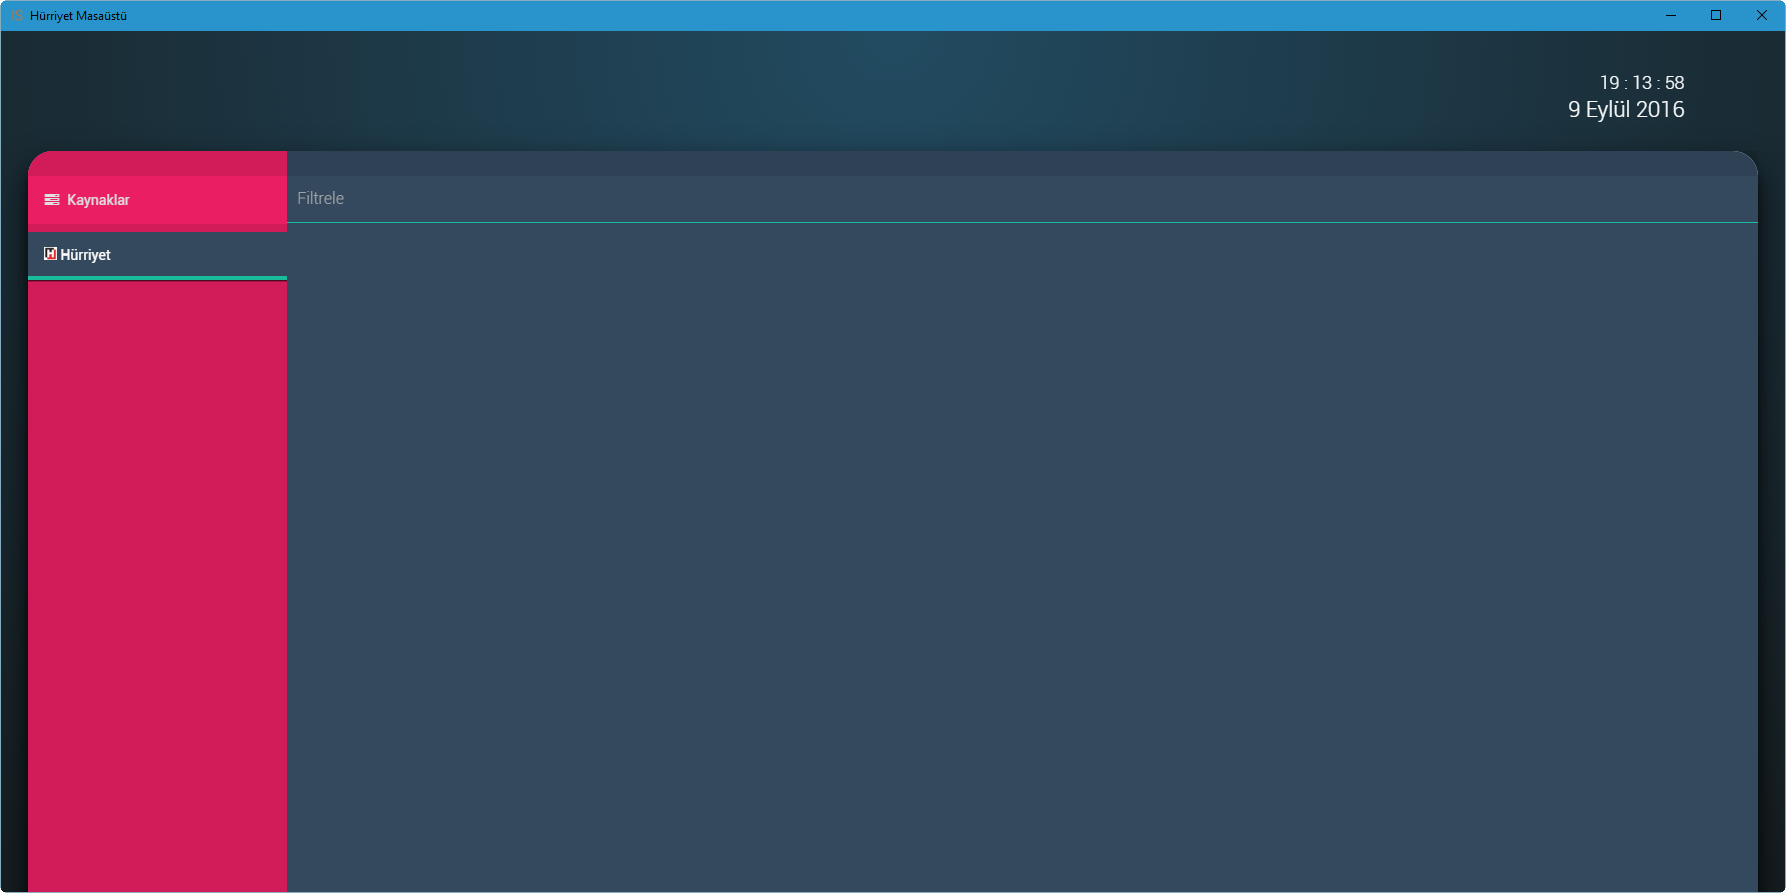
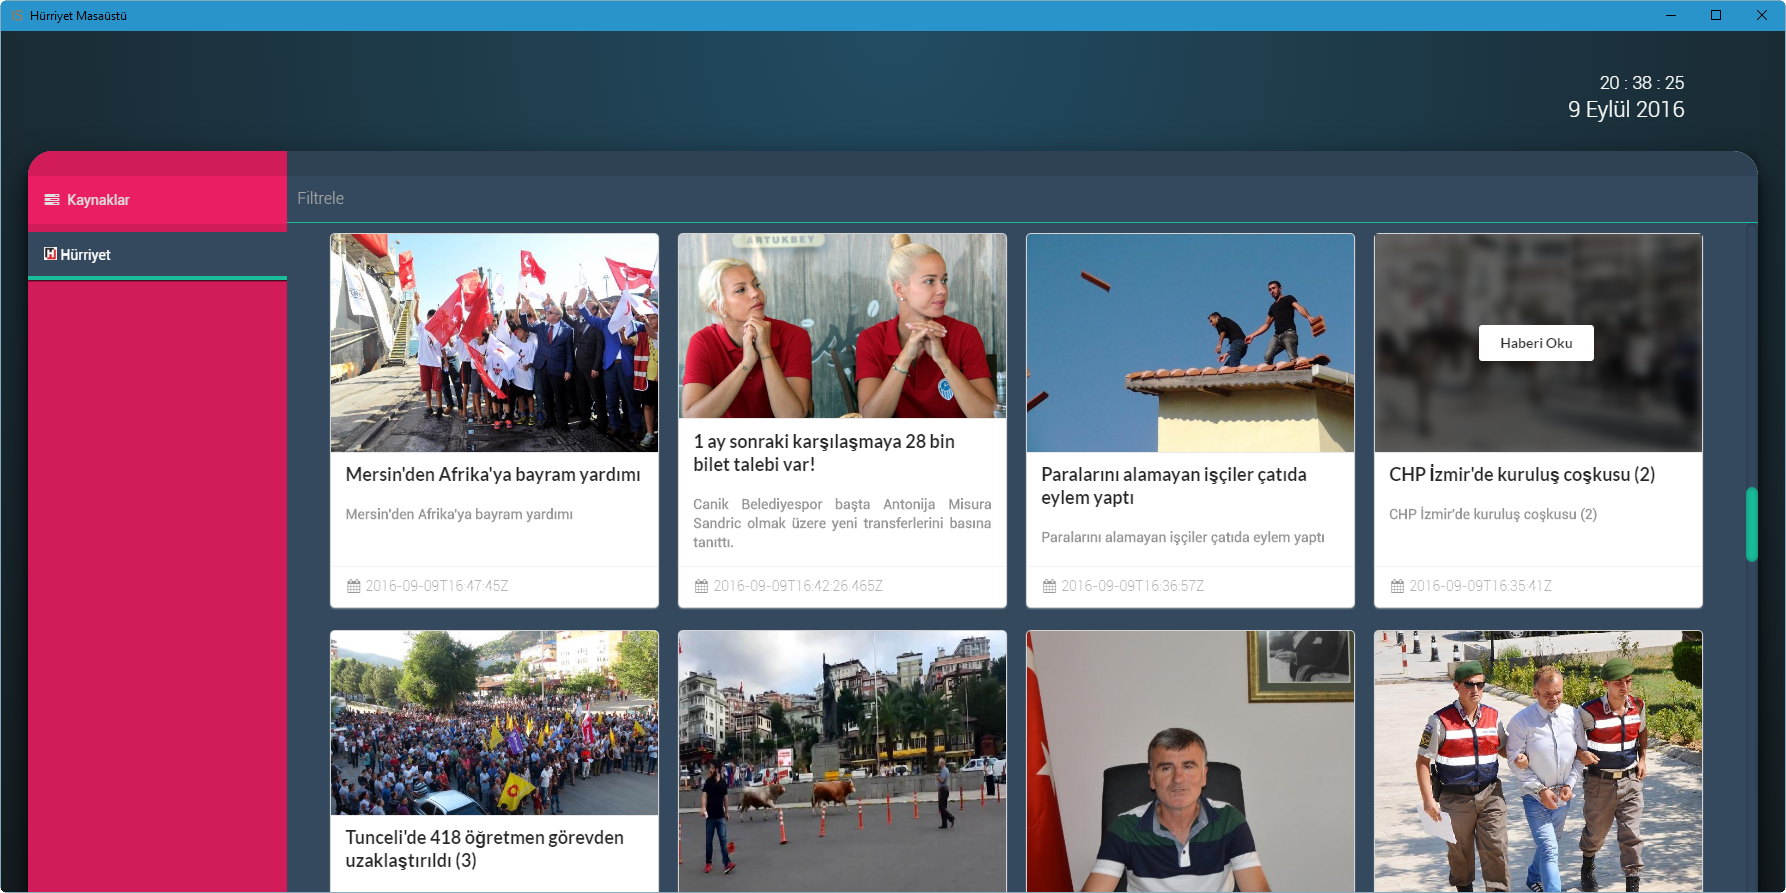
:newspaper: Son 50 haber anasayfada kullanıcıya sunuldu.

diff --git a/app/src/akis.ts b/app/src/akis.ts
@@ -3,7 +3,6 @@
 let fs = require('fs');
 let http = require("https");
 let anahtar: any;
-let haberler: any;
 
 $(document).ready(() => {
   zamaniYaz();
@@ -33,8 +32,8 @@ $(document).ready(() => {
 
         res.on("end", function () {
           let body = Buffer.concat(chunks);
-          haberler = jQuery.parseJSON(body.toString());
-          console.log(haberler);
+          let haberler = jQuery.parseJSON(body.toString());
+          haberleriGoster(haberler);
         });
       });
       req.end();
@@ -42,6 +41,43 @@ $(document).ready(() => {
   });
 });
 
+function haberleriGoster(haberler: any) {
+  console.log(haberler);
+
+  let ifade: string = "<div class='ui four stackable special cards'>";
+  for (let i = 0; i < haberler.length; i++) {
+    let haber = haberler[i];
+    ifade += "\
+    <div class='fluid card'>\
+      <div class='blurring dimmable image'>\
+        <div class='ui dimmer'>\
+          <div class='content'>\
+            <div class='center'><div class='ui inverted button'>Haberi Oku</div></div>\
+          </div>\
+        </div>";
+    if (haber.Files.length > 0) {
+      if (haber.Files[0].FileUrl) {
+        ifade += "<img src='" + haber.Files[0].FileUrl + "' />";
+      }
+    }
+    ifade += "</div>\
+      <div class='content'>\
+        <a class='header haberBaslik'>" + haber.Title + "</a>\
+        <div class='meta haberAciklama'>\
+          <span class='date'><br>" + haber.Description + "</span>\
+        </div>\
+      </div>\
+      <div class='extra content'><a class='haberTarih'><i class='calendar icon'></i>" + haber.ModifiedDate + "</a></div>\
+    </div>";
+  }
+  ifade += "</div>";
+
+  document.getElementById("haberler").innerHTML = ifade;
+
+  $(".special.cards .image").dimmer({
+    on: "hover",
+  });
+}
 
 function zamaniYaz() {
   setInterval(function () {
@@ -67,4 +103,8 @@ function zamaniYaz() {
 
   document.getElementById("yil").innerHTML = new Date().getUTCFullYear().toString();
 
+}
+
+function zamanFormati(zaman: string): string {
+  return zaman;
 }

diff --git a/ana.html b/ana.html
@@ -11,6 +11,7 @@
     <link rel="stylesheet" type="text/css" href="app/css/menu.css">
     <link rel="stylesheet" type="text/css" href="app/css/akis.css">
     <link rel="stylesheet" type="text/css" href="app/css/ust.css">
+    <link rel="stylesheet" type="text/css" href="app/css/haber.css">
     <link rel="stylesheet" type="text/css" href="app/css/uygulama.css">
 
     <!-- JS -->
@@ -47,7 +48,7 @@
         <div class="thirteen wide column" id="akis">
             <div id="zaman">
                 <div class="ust-bar"></div>
-                
+
                 <div id="tarihAlani">
                     <ul>
                         <li id="gun">00</li>

diff --git a/app/css/haber.css b/app/css/haber.css
@@ -1,0 +1,12 @@
+.haberBaslik {
+    font-weight: 700;
+}
+
+.haberAciklama {
+    font-weight: 700;
+    text-align: justify;
+}
+
+.haberTarih {
+    
+}
